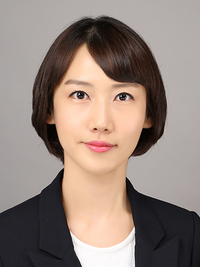
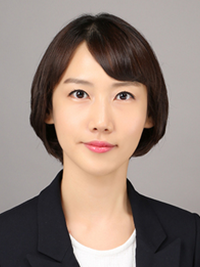
프로필 사진사이즈 통일

diff --git a/profile.html b/profile.html
@@ -150,7 +150,7 @@
                 <div class="swiper-slide">
                   <div class="team">
                     <div class="pic">
-                      <img alt="Image" class="img-fluid" src="./assets/img/innerpeace/profile-01.jpeg">
+                      <img alt="Image" class="img-fluid" src="./assets/img/innerpeace/profile-01.png">
                     </div>
                     <div>
                       <h3 class="">
@@ -245,7 +245,7 @@
                 <div class="swiper-slide">
                   <div class="team">
                     <div class="pic">
-                      <img alt="Image" class="img-fluid" src="./assets/img/innerpeace/profile-03.jpeg">
+                      <img alt="Image" class="img-fluid" src="./assets/img/innerpeace/profile-03.png">
                     </div>
                     <div>
                       <h3 class="">
@@ -330,7 +330,7 @@
                 <div class="swiper-slide">
                   <div class="team">
                     <div class="pic">
-                      <img alt="Image" class="img-fluid" src="./assets/img/innerpeace/profile-05.jpeg">
+                      <img alt="Image" class="img-fluid" src="./assets/img/innerpeace/profile-05.png">
                     </div>
                     <div>
                       <h3 class="">
@@ -369,7 +369,7 @@
                 <div class="swiper-slide">
                   <div class="team">
                     <div class="pic">
-                      <img alt="Image" class="img-fluid" src="./assets/img/innerpeace/profile-06.jpeg">
+                      <img alt="Image" class="img-fluid" src="./assets/img/innerpeace/profile-06.png">
                     </div>
                     <div>
                       <h3 class="">
@@ -415,7 +415,7 @@
                 <div class="swiper-slide">
                   <div class="team">
                     <div class="pic">
-                      <img alt="Image" class="img-fluid" src="./assets/img/innerpeace/profile-07.jpeg">
+                      <img alt="Image" class="img-fluid" src="./assets/img/innerpeace/profile-07.png">
                     </div>
                     <div>
                       <h3 class="">
@@ -496,7 +496,7 @@
                 <div class="swiper-slide">
                   <div class="team">
                     <div class="pic">
-                      <img alt="Image" class="img-fluid" src="./assets/img/innerpeace/profile-09.jpeg">
+                      <img alt="Image" class="img-fluid" src="./assets/img/innerpeace/profile-09.png">
                     </div>
                     <div>
                       <h3 class="">
@@ -541,7 +541,7 @@
                 <div class="swiper-slide">
                   <div class="team">
                     <div class="pic">
-                      <img alt="Image" class="img-fluid" src="./assets/img/innerpeace/profile-10.jpeg">
+                      <img alt="Image" class="img-fluid" src="./assets/img/innerpeace/profile-10.png">
                     </div>
                     <div>
                       <h3 class="">
@@ -582,7 +582,7 @@
                 <div class="swiper-slide">
                   <div class="team">
                     <div class="pic">
-                      <img alt="Image" class="img-fluid" src="./assets/img/innerpeace/profile-11.jpeg">
+                      <img alt="Image" class="img-fluid" src="./assets/img/innerpeace/profile-11.png">
                     </div>
                     <div>
                       <h3 class="">
@@ -624,7 +624,7 @@
                 <div class="swiper-slide">
                   <div class="team">
                     <div class="pic">
-                      <img alt="Image" class="img-fluid" src="./assets/img/innerpeace/profile-12.jpeg">
+                      <img alt="Image" class="img-fluid" src="./assets/img/innerpeace/profile-12.png">
                     </div>
                     <div>
                       <h3 class="">
